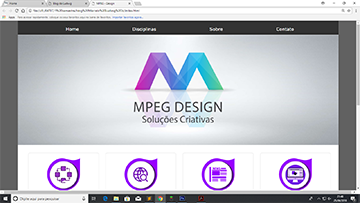
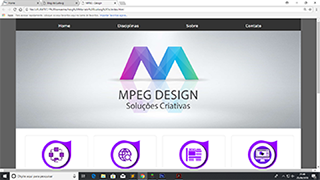
ajuste no breakpoint e links internos para a página

diff --git a/index.html b/index.html
@@ -19,13 +19,14 @@
 <section class="navbar">
   <a href="#">Home</a>
   <a href="#trabalhos">Trabalhos</a>
-  <a href="#">Contato</a>
-  <a href="#">Sobre</a>
+  <a href="#projetos">Projetos</a>
+  <a href="#sobre">Sobre</a>
 </section>
 
 <!-- Flexbox Conteudo -->
 <section class="row">
   <aside class="side">
+      <a name="sobre"></a>
       <h2>Sobre mim</h2>
       <div class="fakeimg1"></div>
       <p>Cursando Sistemas para Internet na FATEC</p><br><br>
@@ -43,11 +44,12 @@
       <a href="blog Marcelo Ludwig Jr/index.html"><div class="fakeimg"></div></a>
       <p>Web site desenvolvido na aula de Padroes de proj Sites I, ministrado pelo professor Alexandre Bernardes. Todo o site foi desenvolvido sem a aplicação das melhores práticas. </p>
       <br>
-      <h2>TITLE HEADING</h2>
-      <h5>Title description, Sep 2, 2017</h5>
-      <div class="fakeimg"></div>
-      <p>Some text..</p>
-      <p>Sunt in culpa qui officia deserunt mollit anim id est laborum consectetur adipiscing elit, sed do eiusmod tempor incididunt ut labore et dolore magna aliqua. Ut enim ad minim veniam, quis nostrud exercitation ullamco.</p>
+      <a name="projetos"></a>
+      <h2>Projetos</h2>
+      <h5>Trabalhos desenvolvidos ao longo do Curso</h5>
+      <a href="blog Marcelo Ludwig Jr/index.html"><div class="fakeimg"></div></a>
+      <p>Web site desenvolvido na aula de Padroes de proj Sites I, ministrado pelo professor Alexandre Bernardes. Todo o site foi desenvolvido sem a aplicação das melhores práticas. </p>
+      <br>
   </article>
 
 </section>
